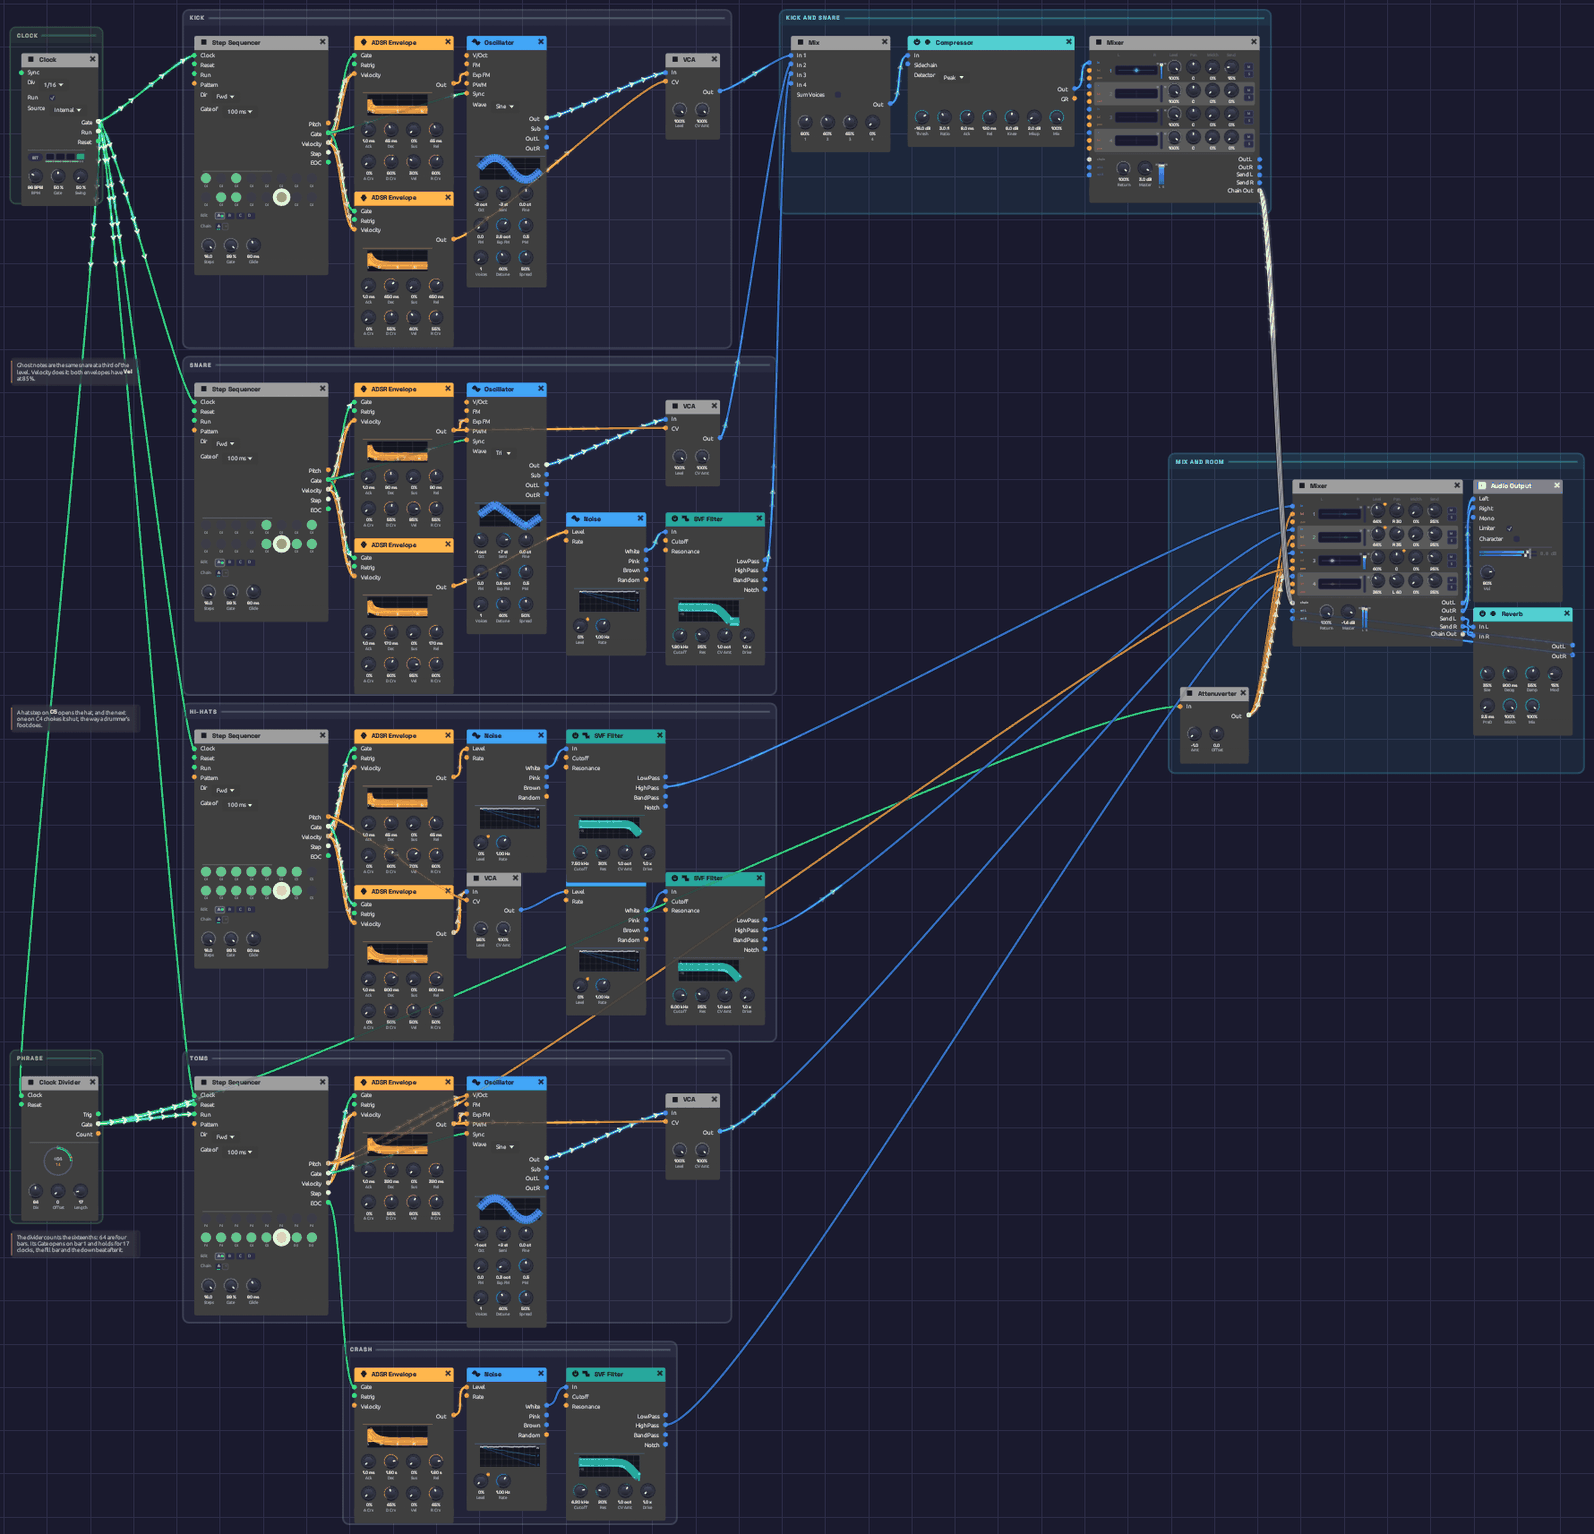
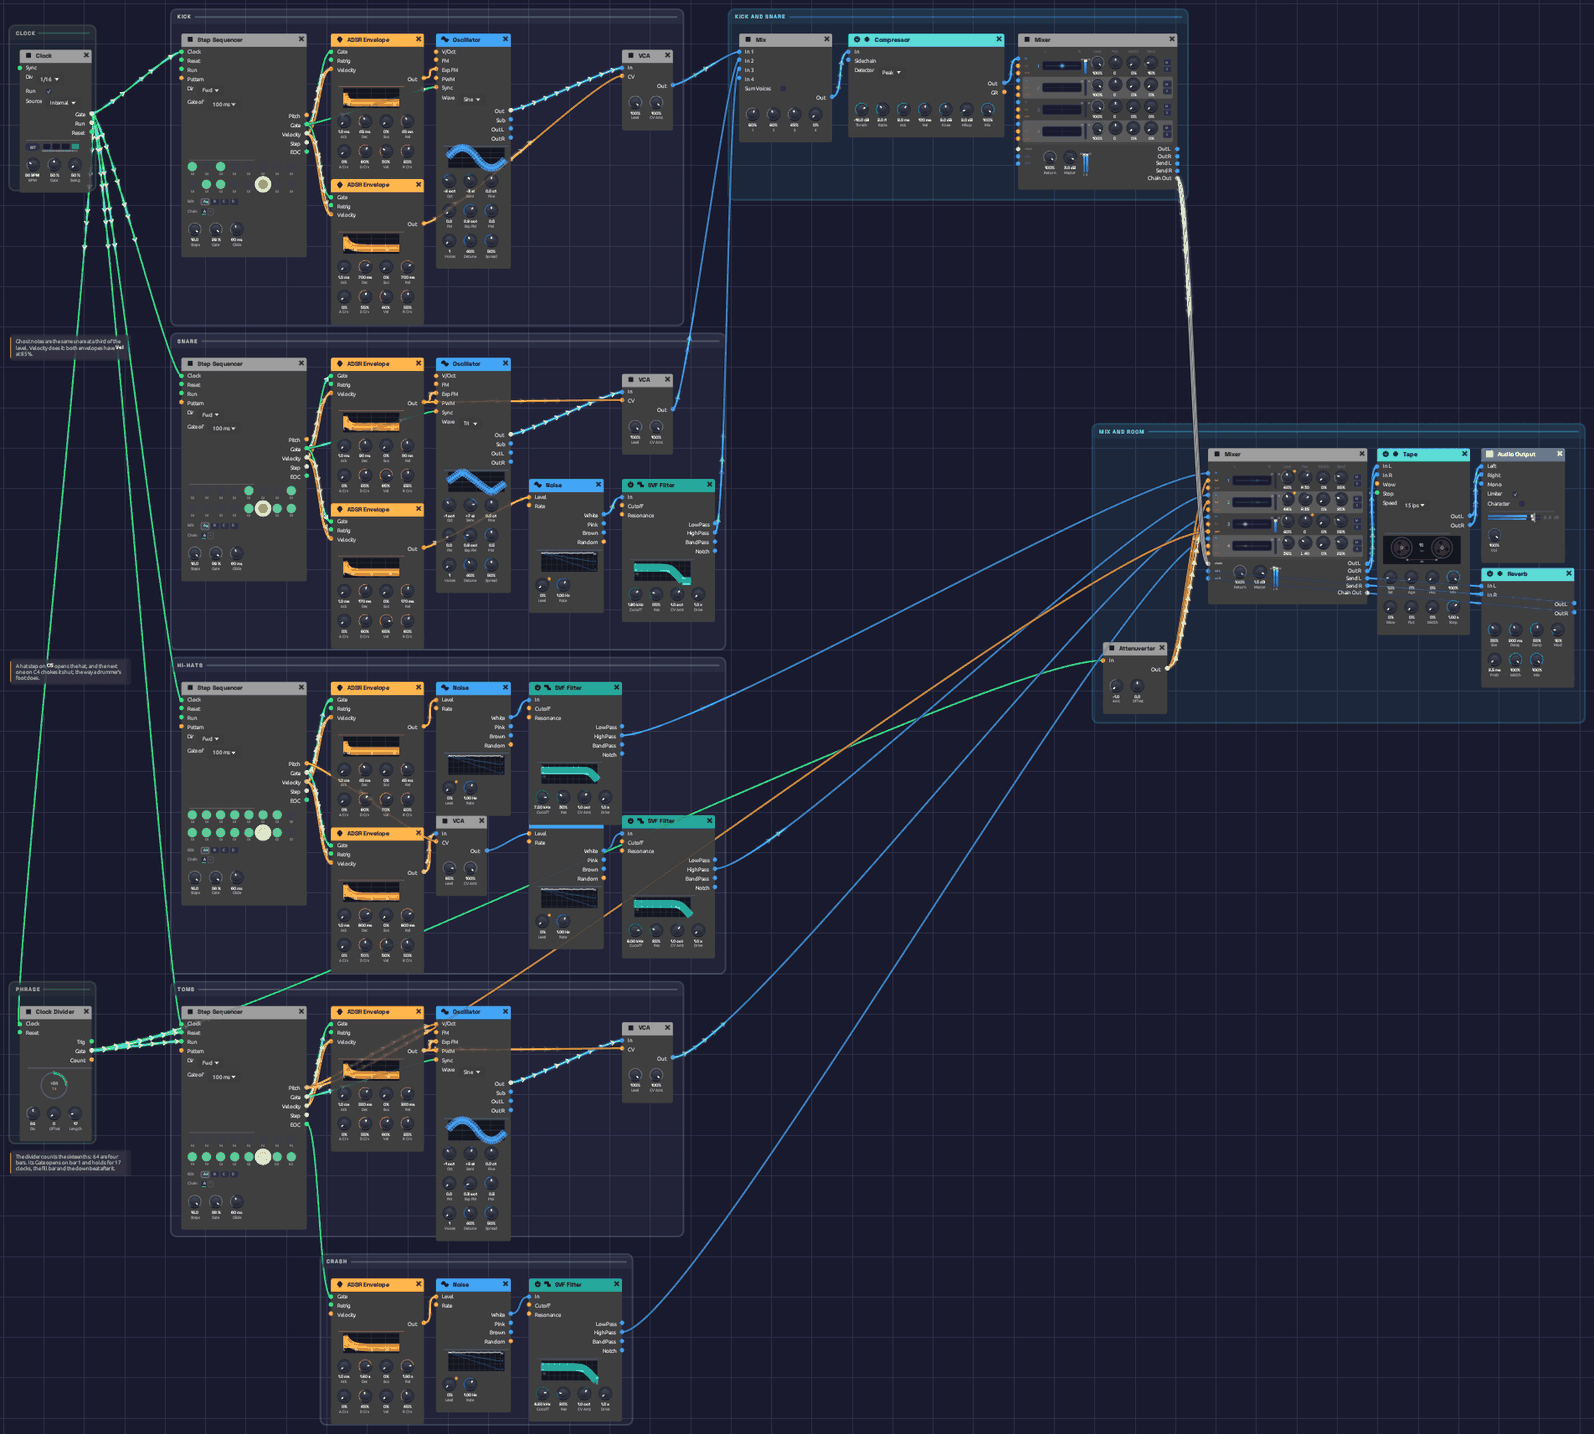
[Phase 14] Drum examples come up to the house level
Bus compression turned out to be the wrong tool: with an attack slow
enough to let the crack through, it turns down the body of each hit and
leaves the peak, so peak-to-loudness grew from 18 to 21-24 dB. In Drum
Machine and Roll Call the kick is nearly all the loudness and sets the
peaks, so a longer kick body adds loudness under the same peak.

- Drum Machine: kick Decay 45% -> 80%, Master +3.4 dB (-17.0 LUFS)
- Roll Call: kick Decay 45% -> 75%, Master +3.8 dB (-16.6 LUFS)
- Backbeat: a clean Tape on the bus (Sat 10%, no wow, flutter, age or
  hiss) rounds off the first milliseconds of each hit; kick level
  envelope 700 ms, main Master +1.5 dB, Output 100% (-16.8 LUFS)
- All three out of QUIETER; peaks into the limiter -1.5 to -1.9 dBFS
- The divider test puts the kick, tape and levels back to the fixture's
- Recipes say why, tables follow the patches, images re-shot

Closes #174

diff --git a/tests/divider.rs b/tests/divider.rs
@@ -8,7 +8,9 @@
 //! Since the snare joined the kit's room (#100), its reverb tail rings into
 //! the step the fill is detected on. The renders take the snare out of the
 //! room again, and time the room's return exactly, which makes the mix the
-//! fixture's, the old one.
+//! fixture's, the old one. Since the kit came up to the house level (#174),
+//! its kick rings into that step too, and the bus goes to tape: the renders
+//! put the kick, the tape and the levels back as well.
 
 use std::path::{Path, PathBuf};
 
@@ -16,6 +18,9 @@ use soba::engine::read_wav;
 
 /// A sixteenth at Backbeat's 96 BPM, at the render tool's 48 kHz.
 const STEP: usize = 7500;
+
+/// Backbeat's kick level envelope, by its id in the patch.
+const KICK_LEVEL_ENVELOPE: u64 = 4;
 
 /// Long enough for three fills (bars 1, 5 and 9) and the crash after the
 /// third.
@@ -63,7 +68,10 @@ fn fill_bars(steps: &[f32]) -> Vec<usize> {
 /// Backbeat with its divider's Offset set, and its kick and snare kept out
 /// of the room: the drum-bus Mixer chained into the main one sends nothing. The
 /// reverb returns through a loop, a 256-sample block late at 48 kHz, so its
-/// pre-delay gives back exactly that much of the fixture's 8 ms.
+/// pre-delay gives back exactly that much of the fixture's 8 ms. The kick's
+/// level envelope falls in 450 ms, the main Mixer's Master and the Output's
+/// Volume are the fixture's -1.4 dB and 80% between them, and the Tape is
+/// taken out, its cables joined straight through.
 fn backbeat(offset: f32, path: &Path) -> PathBuf {
     let mut patch: serde_json::Value = serde_json::from_str(&std::fs::read_to_string(repo("patches/backbeat.json")).unwrap()).unwrap();
     let chained = patch["connections"]
@@ -73,7 +81,34 @@ fn backbeat(offset: f32, path: &Path) -> PathBuf {
         .find(|c| c["to_port"] == "Chain In")
         .map(|c| c["from_node"].clone())
         .expect("the kick and snare's drum bus chains into the main Mixer");
+    let main = patch["connections"].as_array().unwrap().iter().find(|c| c["to_port"] == "Chain In").unwrap()["to_node"].clone();
+    let tape = patch["nodes"].as_array().unwrap().iter().find(|n| n["module_id"] == "fx.tape").expect("the kit goes to tape")["id"].clone();
+    let connections = patch["connections"].as_array_mut().unwrap();
+    let (into_tape, rest): (Vec<_>, Vec<_>) = connections.drain(..).partition(|c| c["to_node"] == tape);
+    let (out_of_tape, rest): (Vec<_>, Vec<_>) = rest.into_iter().partition(|c| c["from_node"] == tape);
+    connections.extend(rest);
+    for out in out_of_tape {
+        let side = out["from_port"].as_str().unwrap().replace("Out", "In");
+        let source = into_tape.iter().find(|c| c["to_port"] == side.as_str()).unwrap();
+        let mut through = out.clone();
+        through["from_node"] = source["from_node"].clone();
+        through["from_port"] = source["from_port"].clone();
+        connections.push(through);
+    }
+    let set = |node: &mut serde_json::Value, name: &str, value: f64| {
+        node["parameters"].as_array_mut().unwrap().iter_mut().find(|p| p["name"] == name).unwrap()["value"] = value.into();
+    };
     for node in patch["nodes"].as_array_mut().unwrap() {
+        if node["id"] == KICK_LEVEL_ENVELOPE {
+            set(node, "Decay", 0.45);
+            set(node, "Release", 0.45);
+        }
+        if node["id"] == main {
+            set(node, "Master", -1.4);
+        }
+        if node["module_id"] == "output.audio" {
+            set(node, "Volume", 0.8);
+        }
         let (divider, kick_and_snare) = (node["module_id"] == "util.divider", node["id"] == chained);
         if node["module_id"] == "fx.reverb" {
             let pre_delay = node["parameters"].as_array_mut().unwrap().iter_mut().find(|p| p["name"] == "Pre-Delay").unwrap();

diff --git a/tests/example_loudness.rs b/tests/example_loudness.rs
@@ -53,12 +53,6 @@ const SONGS: &[(&str, f32, f32)] = &[("from-one-sine.json", 128.0, 112.0), ("cla
 
 /// Examples that sit below the house level, and why.
 const QUIETER: &[(&str, &str)] = &[
-    (
-        "backbeat.json",
-        "its drums peak 20 dB above their loudness, and already come within a dB of the ceiling; it can't come up without squashing them",
-    ),
-    ("drum-machine.json", "raw drums: brought up until their peaks reach the ceiling, and no further"),
-    ("roll-call.json", "raw drums: brought up until their peaks reach the ceiling, and no further"),
     ("live-looper.json", "it plays what you play into it, as loud as you play it"),
 ];
 

diff --git a/docs/src/recipes/backbeat.md b/docs/src/recipes/backbeat.md
@@ -11,7 +11,7 @@ To learn how drums are made, build them like this. To make a beat quickly, use t
 *Or play it here: press **▶ Play** in the corner. The full app is a click away under **Open in Soba**.*
 
 ![The Backbeat patch](../images/recipe-backbeat.png)
-*One lane per drum, from the top: kick, snare, hi-hats, toms, crash. The clock is at the top left. The Clock Divider that schedules the fill sits lower down in the same column. Kick and snare mix, compress and land on a drum bus at the top right. Below and to the right, the main Mixer brings the whole kit together, shares one small room among every drum, and feeds the output.*
+*One lane per drum, from the top: kick, snare, hi-hats, toms, crash. The clock is at the top left. The Clock Divider that schedules the fill sits lower down in the same column. Kick and snare mix, compress and land on a drum bus at the top right. Below and to the right, the main Mixer brings the whole kit together, shares one small room among every drum, and feeds the output through a Tape.*
 
 ## What it teaches
 
@@ -42,7 +42,7 @@ crash    on the downbeat after each fill
 | [Step Sequencer](../modules/utilities/sequencer.md) ×4 (kick, snare, hats, toms) | **Steps** 16, **Gate** 99%, **Gate of** 100 ms. Steps as in the pattern above |
 | [Oscillator](../modules/sources/oscillator.md) (kick) | **Wave** Sine, **Oct** -2, **Semi** -3 (55 Hz), **Exp FM** 2.6 oct |
 | [ADSR Envelope](../modules/modulation/adsr.md) (kick pitch) | **Atk** 1 ms, **Dec** 45 ms, **Sus** 0%, **Rel** 45 ms, **Vel** 30% |
-| [ADSR Envelope](../modules/modulation/adsr.md) (kick level) | **Atk** 1 ms, **Dec** 450 ms, **Sus** 0%, **Rel** 450 ms, **Vel** 40% |
+| [ADSR Envelope](../modules/modulation/adsr.md) (kick level) | **Atk** 1 ms, **Dec** 700 ms, **Sus** 0%, **Rel** 700 ms, **Vel** 40% |
 | [Oscillator](../modules/sources/oscillator.md) (snare body) | **Wave** Tri, **Oct** -1, **Semi** +7 (196 Hz), **Exp FM** 0.6 oct |
 | [ADSR Envelope](../modules/modulation/adsr.md) (snare body) | **Dec** 90 ms, **Rel** 90 ms, **Vel** 85% |
 | [Noise](../modules/sources/noise.md) + [SVF Filter](../modules/filters/svf-filter.md) (snare) | **Level** 0%; HighPass, **Cutoff** 1.8 kHz, **Res** 25% |
@@ -60,9 +60,10 @@ crash    on the downbeat after each fill
 | [Mix](../modules/utilities/mix.md) (kick and snare) | **Level 1** 60% kick, **Level 2** 40% snare body, **Level 3** 45% snare noise |
 | [Compressor](../modules/effects/compressor.md) | **Thresh** -16 dB, **Ratio** 3:1, **Atk** 8 ms, **Rel** 120 ms, **Mkup** 2 dB |
 | [Mixer](../modules/utilities/mixer.md) (drum bus) | **Level 1** 100%, centred; **Send 1** 15%; **Master** +3 dB |
-| [Mixer](../modules/utilities/mixer.md) (main) | Hats 44% at R 30 / R 35, toms 40%, crash 36% at L 40; every **Send** 25%; **Master** −1.4 dB |
+| [Mixer](../modules/utilities/mixer.md) (main) | Hats 44% at R 30 / R 35, toms 40%, crash 36% at L 40; every **Send** 25%; **Master** +1.5 dB |
 | [Reverb](../modules/effects/reverb.md) | **Size** 35%, **Decay** 0.9 s, **Damp** 55%, **PreD** 2.5 ms, **Mix** 100% |
-| [Audio Output](../modules/output/audio-output.md) | **Vol** 80% |
+| [Tape](../modules/effects/tape.md) | **Speed** 15 ips, **Sat** 10%, **Age** 0%, **Hiss** 0%, **Wow** 0%, **Flut** 0%, **Width** 0% |
+| [Audio Output](../modules/output/audio-output.md) | **Vol** 100% |
 
 All drum envelopes have a 1 ms attack and 0% sustain. The sequencers' gates are a fixed 99 ms (**Gate of** 100 ms), so each envelope's **Release** matches its **Decay**: the sound falls at the same rate after the gate closes.
 
@@ -137,7 +138,8 @@ One oscillator plays all four toms. The sequencer's **Pitch** picks the drum, wi
 [Drum Bus Mixer Chain Out] ──> [Main Mixer Chain In]
 [Main Mixer Send L/R] ──> [Reverb In L/R]
 [Reverb Out L/R] ──> [Main Mixer Return L/R]
-[Main Mixer Out L/R] ──> [Audio Output Left/Right]
+[Main Mixer Out L/R] ──> [Tape In L/R]
+[Tape Out L/R] ──> [Audio Output Left/Right]
 ```
 
 Kick and snare are added on a [Mix](../modules/utilities/mix.md) and go through a compressor, which glues them together. The compressor's 8 ms attack lets each hit's crack through before it starts to work. Its output is the only channel of a small drum-bus Mixer, centred. A centred channel is 3 dB down on each side, so the bus's **Master** at +3 dB gives it back. The bus's **Chain Out** carries its mix and its send into the main Mixer's **Chain In** on one cable. Hats, toms and crash have the main Mixer's four channels, each panned to its place.
@@ -148,9 +150,13 @@ The reverb comes back on the main Mixer's **Return**. That closes a loop, from t
 
 The hats, toms and crash have exactly the balance they had when the whole second Mixer ran through the reverb at 20%: faders at 0.8 of their old level keep the dry, and a 25% send after them keeps the wet.
 
+The whole kit goes to tape on its way out. Wow, flutter, age and hiss are all at zero, which leaves only the saturation, at 10%. The first few milliseconds of a hit are far louder than the rest of it, and the tape rounds off their tops, as a machine does when a kit is recorded hot. That takes about 3 dB off the peaks and hardly touches anything quieter, so the kit comes up to the level of the other examples and its peaks still stay under the Output's limiter. The kick's level envelope rings for 700 ms for the same reason: a longer body adds loudness under the same peak. A compressor on the mix can't do this job. One slow enough to let the crack through turns down the body of each hit and leaves the peak where it was.
+
 ## Variations
 
 **Tighter or looser kick.** Shorten the kick pitch envelope's **Dec** to 25 ms for a clicky dance kick, or lengthen it to 90 ms for a boomy one. Raise the level envelope's **Dec** to 900 ms for an 808-style tail.
+
+**Hotter tape.** Raise the Tape's **Sat** to 30%. The level hardly moves, because the tape makes up the drive it adds, but the kit sounds recorded harder: the hits rounder and denser, and the hats sinking a little under each kick.
 
 **More snare.** Turn the snare filter's **Cutoff** down to 900 Hz for a fatter, rougher snare, or set it to BandPass at 4 kHz for a thin, crisp one.
 

diff --git a/docs/src/recipes/drum-machine.md b/docs/src/recipes/drum-machine.md
@@ -1,6 +1,6 @@
 # Drum Machine
 
-A drum machine in 14 modules: one Clock, five sequencer lanes, and a [Drum](../modules/sources/drum.md) voice on each lane. It plays a swung groove with a kick, a snare with ghost notes, closed and open hats, and three tuned toms. [Backbeat](./backbeat.md) builds a kit like this from oscillators, noise and envelopes, in 35 modules and 66 cables. Here each drum is one module, and the whole patch has 31 cables. It plays itself; press Play and let it run.
+A drum machine in 14 modules: one Clock, five sequencer lanes, and a [Drum](../modules/sources/drum.md) voice on each lane. It plays a swung groove with a kick, a snare with ghost notes, closed and open hats, and three tuned toms. [Backbeat](./backbeat.md) builds a kit like this from oscillators, noise and envelopes, in 37 modules and 67 cables. Here each drum is one module, and the whole patch has 31 cables. It plays itself; press Play and let it run.
 
 > **Load it:** choose **📚 Examples → Drum Machine** in the toolbar and press **▶ Play**. It needs no keyboard.
 > The patch file is [`patches/drum-machine.json`](https://github.com/chrischaps/Soba/blob/master/patches/drum-machine.json).
@@ -37,12 +37,12 @@ toms     . . . . . G . . . . . . . D . A#
 |--------|----------|
 | [Clock](../modules/modulation/clock.md) | **BPM** 100, **Div** 1/16, **Gate** 50%, **Swing** 56% |
 | [Step Sequencer](../modules/utilities/sequencer.md) ×5 (kick, snare, closed hat, open hat, toms) | **Steps** 16, **Gate** 50%, **Gate of** Step. Steps as in the pattern above |
-| [Drum](../modules/sources/drum.md) (kick) | **Type** Kick, **Tune** -1 st, **Decay** 45%, **Tone** 35%, **Snap** 55%, **Level** 85% |
+| [Drum](../modules/sources/drum.md) (kick) | **Type** Kick, **Tune** -1 st, **Decay** 80%, **Tone** 35%, **Snap** 55%, **Level** 85% |
 | [Drum](../modules/sources/drum.md) (snare) | **Type** Snare, **Tune** +1 st, **Decay** 40%, **Tone** 55%, **Snap** 65%, **Level** 80% |
 | [Drum](../modules/sources/drum.md) (closed hat) | **Type** Closed Hat, **Decay** 35%, **Tone** 60%, **Snap** 40%, **Level** 70% |
 | [Drum](../modules/sources/drum.md) (open hat) | **Type** Open Hat, **Decay** 55%, **Tone** 60%, **Snap** 45%, **Level** 60% |
 | [Drum](../modules/sources/drum.md) (toms) | **Type** Tom, **Decay** 45%, **Tone** 30%, **Snap** 40%, **Level** 80% |
-| [Mixer](../modules/utilities/mixer.md) | Snare 80% centre, closed hat 55% and open hat 50% at R 25, toms 70% at L 30; the kick on **Return L**; **Master** +3.6 dB |
+| [Mixer](../modules/utilities/mixer.md) | Snare 80% centre, closed hat 55% and open hat 50% at R 25, toms 70% at L 30; the kick on **Return L**; **Master** +3.4 dB |
 | [Reverb](../modules/effects/reverb.md) | **Size** 30%, **Decay** 0.6 s, **Damp** 60%, **PreD** 8 ms, **Mix** 14% |
 | [Audio Output](../modules/output/audio-output.md) | **Vol** 80% |
 
@@ -63,7 +63,9 @@ A drum only cares when its trigger rises, so the length of the gate doesn't matt
 
 ### The kick and snare
 
-The kick hits on 1, the last sixteenth of beat 2 and the *and* of 3. Each hit drops two and a half octaves to 45 Hz, most of the way in the first 20 ms. **Snap** at 55% sets how far it falls and how hard the beater clicks. **Tone** at 35% rounds the sine off a little, so the kick carries on small speakers.
+The kick hits on 1, the last sixteenth of beat 2 and the *and* of 3. Each hit drops two and a half octaves to 45 Hz, most of the way in the first 20 ms. **Snap** at 55% sets how far it falls and how hard the beater clicks. **Tone** at 35% rounds the sine off a little, so the kick carries on small speakers. **Decay** at 80% lets the body ring for over a second, so the kick on the *and* of 3 lands while the one before it is still sounding, 20 dB down.
+
+That long body is what lets the kit play as loud as the other examples. The kick is nearly all of the kit's loudness, and its loudest instant is the first few milliseconds of the drop. A longer body adds loudness without raising that peak. With the kick at 45%, the kit had to play 3 dB quieter to keep its peaks under the Output's limiter. A compressor on the mix doesn't help: one slow enough to let the crack through turns the body down and leaves the peak where it was.
 
 The snare's backbeats on 2 and 4 play at full velocity. Its three ghost notes play at 34 to 46 out of 127, about a third. At that accent the Drum plays them about 10 dB down and darker, with less of the wires, so they sit under the groove like a drummer's left hand.
 
@@ -99,7 +101,7 @@ Snare, hats and toms take the Mixer's four channels. The kick comes in on **Retu
 
 **The 808 cowbell.** Set the toms' **Type** to **Cowbell**. The tom lane's three notes become a cowbell figure.
 
-**An 808 boom.** Set the kick's **Decay** to 85%, **Tone** to 10% and **Snap** to 30%. The kick becomes a long, pure sub that rings into the next hit. Tune it to the key of whatever plays over it.
+**An 808 boom.** Set the kick's **Decay** to 95%, **Tone** to 10% and **Snap** to 30%. The kick becomes a long, pure sub that rings into the next hit. Tune it to the key of whatever plays over it.
 
 **Let the hat breathe.** Turn off the closed hat's step 8. The open hat on 7 now rings until step 9.
 

diff --git a/docs/src/recipes/roll-call.md b/docs/src/recipes/roll-call.md
@@ -59,7 +59,7 @@ The rim plays one quiet hit every 3 steps, and the cowbell one every 5, three ti
 |--------|----------|
 | [Clock](../modules/modulation/clock.md) | **BPM** 104, **Div** 1/16, **Gate** 50%, **Swing** 57% |
 | [Trigger Sequencer](../modules/utilities/trigger-sequencer.md) | **Steps** 16, **Gate** 50%, **Accent** 35%. Chain `C A A B`. Rim lane 3 steps long, cowbell lane 5 |
-| [Drum](../modules/sources/drum.md) (kick) | **Type** Kick, **Tune** -1 st, **Decay** 45%, **Tone** 35%, **Snap** 55%, **Level** 85% |
+| [Drum](../modules/sources/drum.md) (kick) | **Type** Kick, **Tune** -1 st, **Decay** 75%, **Tone** 35%, **Snap** 55%, **Level** 85% |
 | [Drum](../modules/sources/drum.md) (snare) | **Type** Snare, **Tune** +1 st, **Decay** 40%, **Tone** 55%, **Snap** 65%, **Level** 80% |
 | [Drum](../modules/sources/drum.md) (closed hat) | **Type** Closed Hat, **Decay** 35%, **Tone** 60%, **Snap** 40%, **Level** 70% |
 | [Drum](../modules/sources/drum.md) (open hat) | **Type** Open Hat, **Decay** 55%, **Tone** 60%, **Snap** 45%, **Level** 60% |
@@ -68,7 +68,7 @@ The rim plays one quiet hit every 3 steps, and the cowbell one every 5, three ti
 | [Drum](../modules/sources/drum.md) (cowbell) | **Type** Cowbell, **Decay** 35%, **Tone** 50%, **Snap** 50%, **Level** 50% |
 | [Drum](../modules/sources/drum.md) (cymbal) | **Type** Cymbal, **Decay** 70%, **Tone** 55%, **Snap** 50%, **Level** 50% |
 | [Mixer](../modules/utilities/mixer.md) (skins) | Snare 75% at R 10, tom 70% at L 30, rim 50% at R 45, cowbell 45% at L 45; the kick on **Return L** |
-| [Mixer](../modules/utilities/mixer.md) (metal) | Closed hat 55% and open hat 50% at R 30, cymbal 45% at L 25; the skins Mixer on **Chain In**; **Master** +4.2 dB |
+| [Mixer](../modules/utilities/mixer.md) (metal) | Closed hat 55% and open hat 50% at R 30, cymbal 45% at L 25; the skins Mixer on **Chain In**; **Master** +3.8 dB |
 | [Reverb](../modules/effects/reverb.md) | **Size** 30%, **Decay** 0.6 s, **Damp** 60%, **PreD** 8 ms, **Mix** 14% |
 | [Audio Output](../modules/output/audio-output.md) | **Vol** 80% |
 
@@ -91,6 +91,8 @@ Accents raise the velocity of every hit on beats 1 to 4 a third of the way to fu
 ### Two mixers
 
 Five drums go to the first Mixer: the kick on its **Return L**, which puts it in the centre, and the snare, tom, rim and cowbell on its four channels. That Mixer's **Chain Out** comes into the second one's **Chain In**, on one cable, and the second adds the hats and the cymbal and sends the whole kit through a small room.
+
+The kick's **Decay** is long, at 75%, and that is what sets the kit's level. The kick is most of the kit's loudness, and its loudest instant is the first few milliseconds of each hit. A longer body adds loudness without raising that peak, so the kit plays as loud as the other examples and its peaks still stay under the Output's limiter. At 45% it had to play nearly 3 dB quieter.
 
 ## Try this
 
